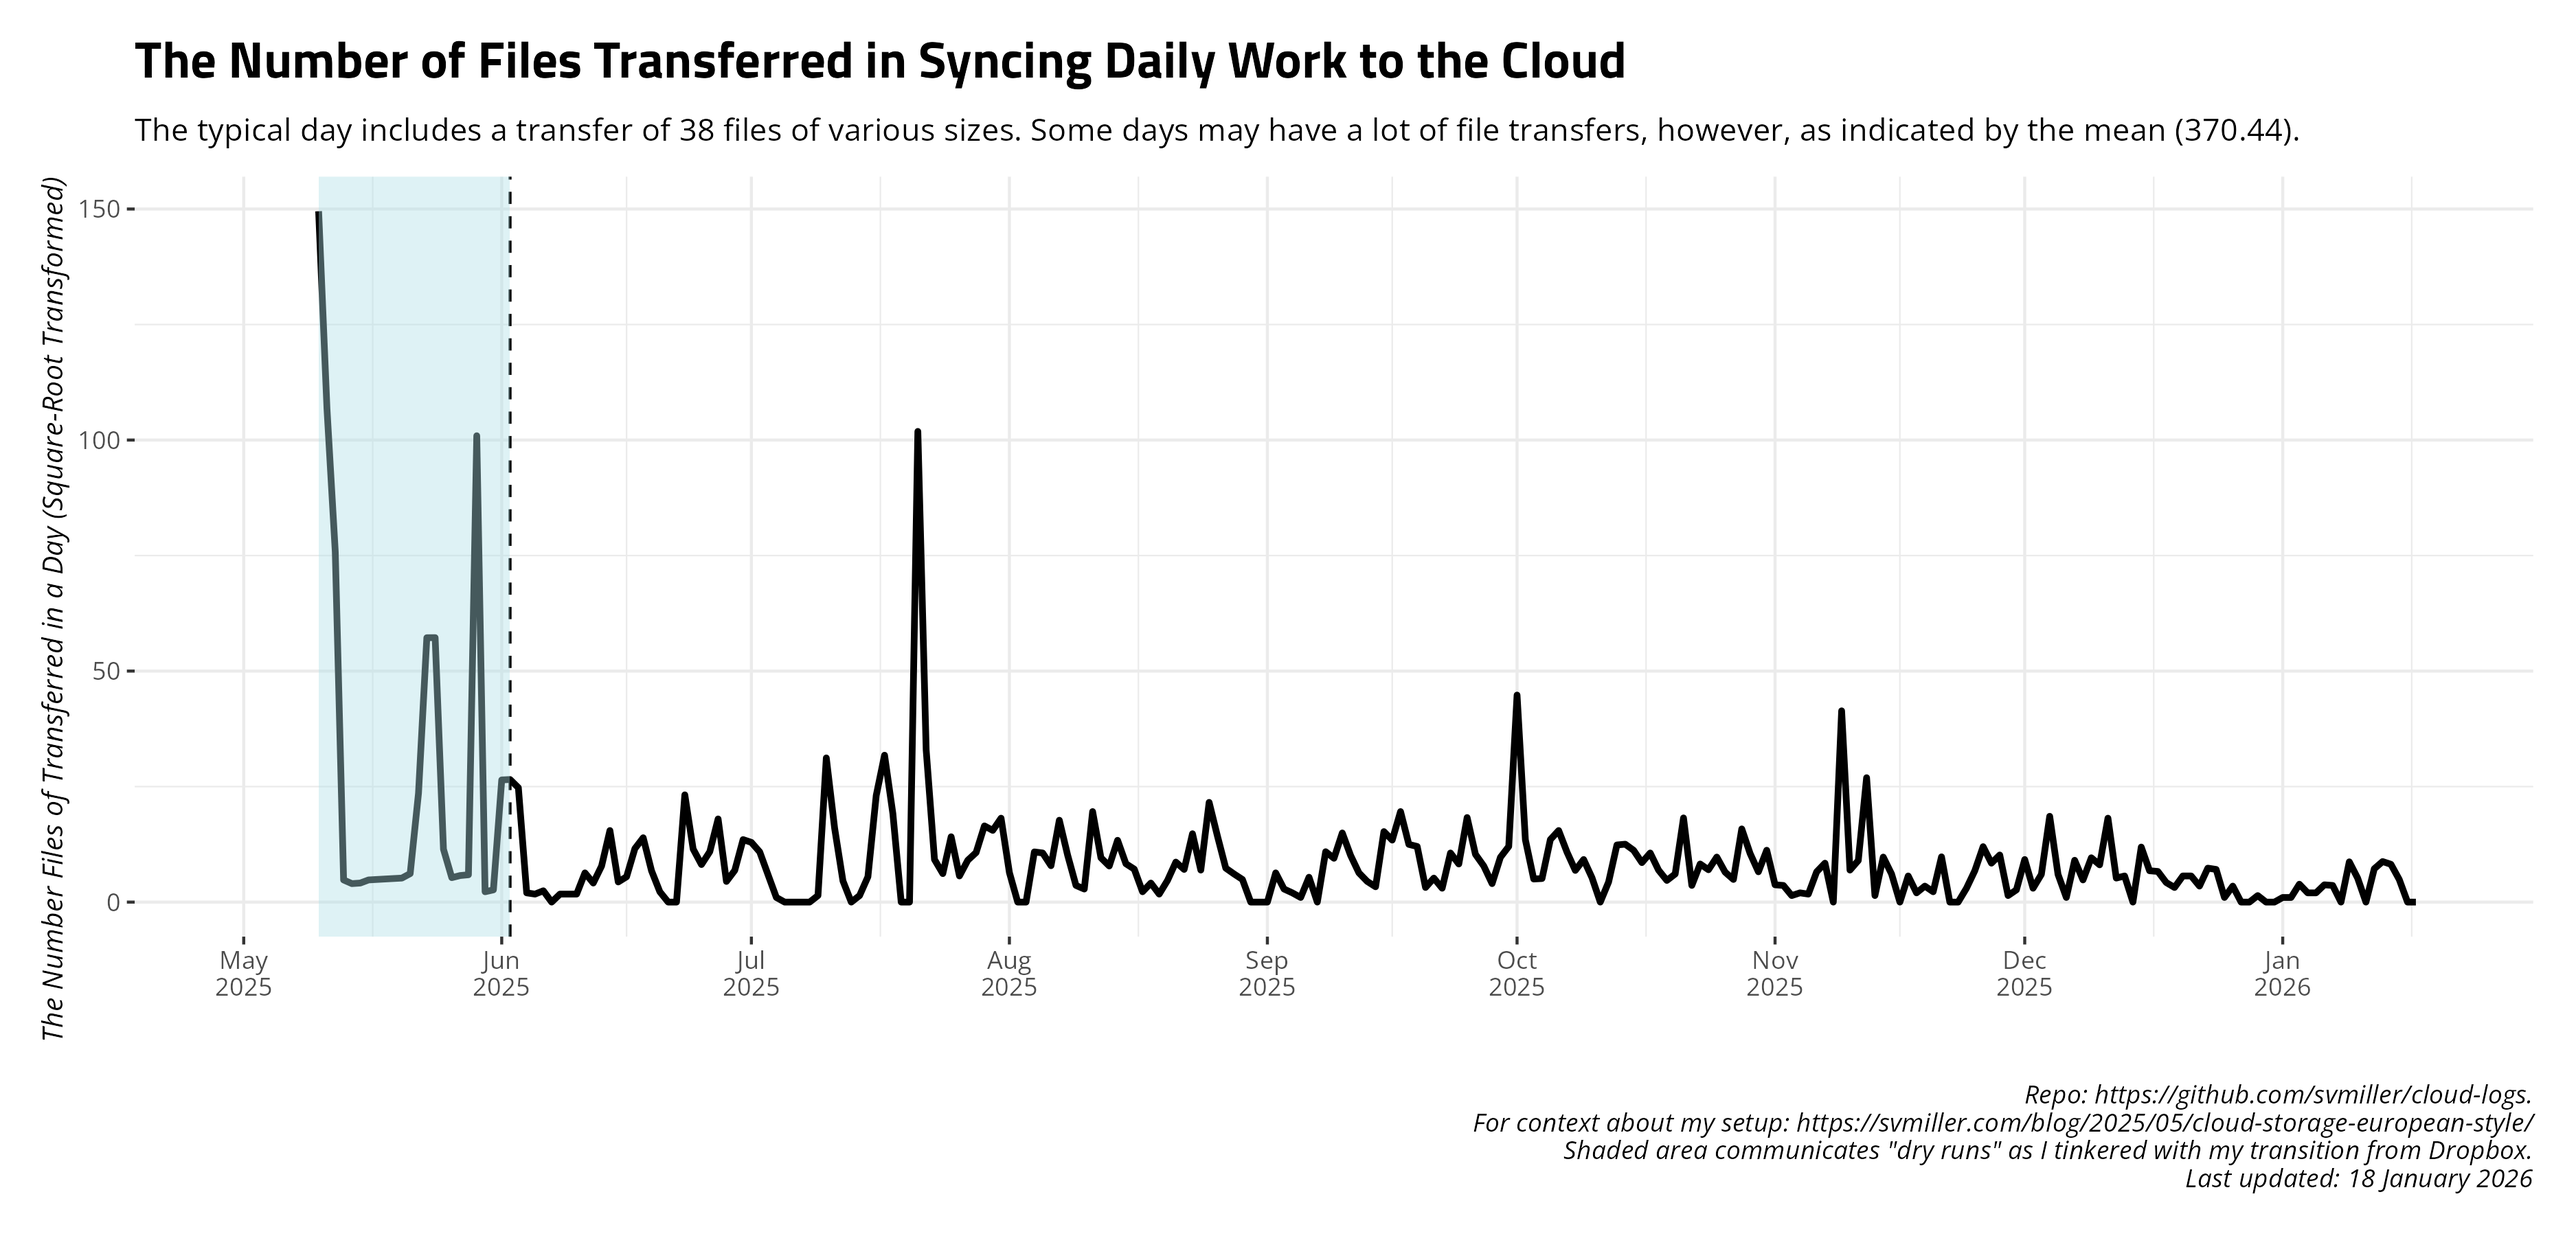
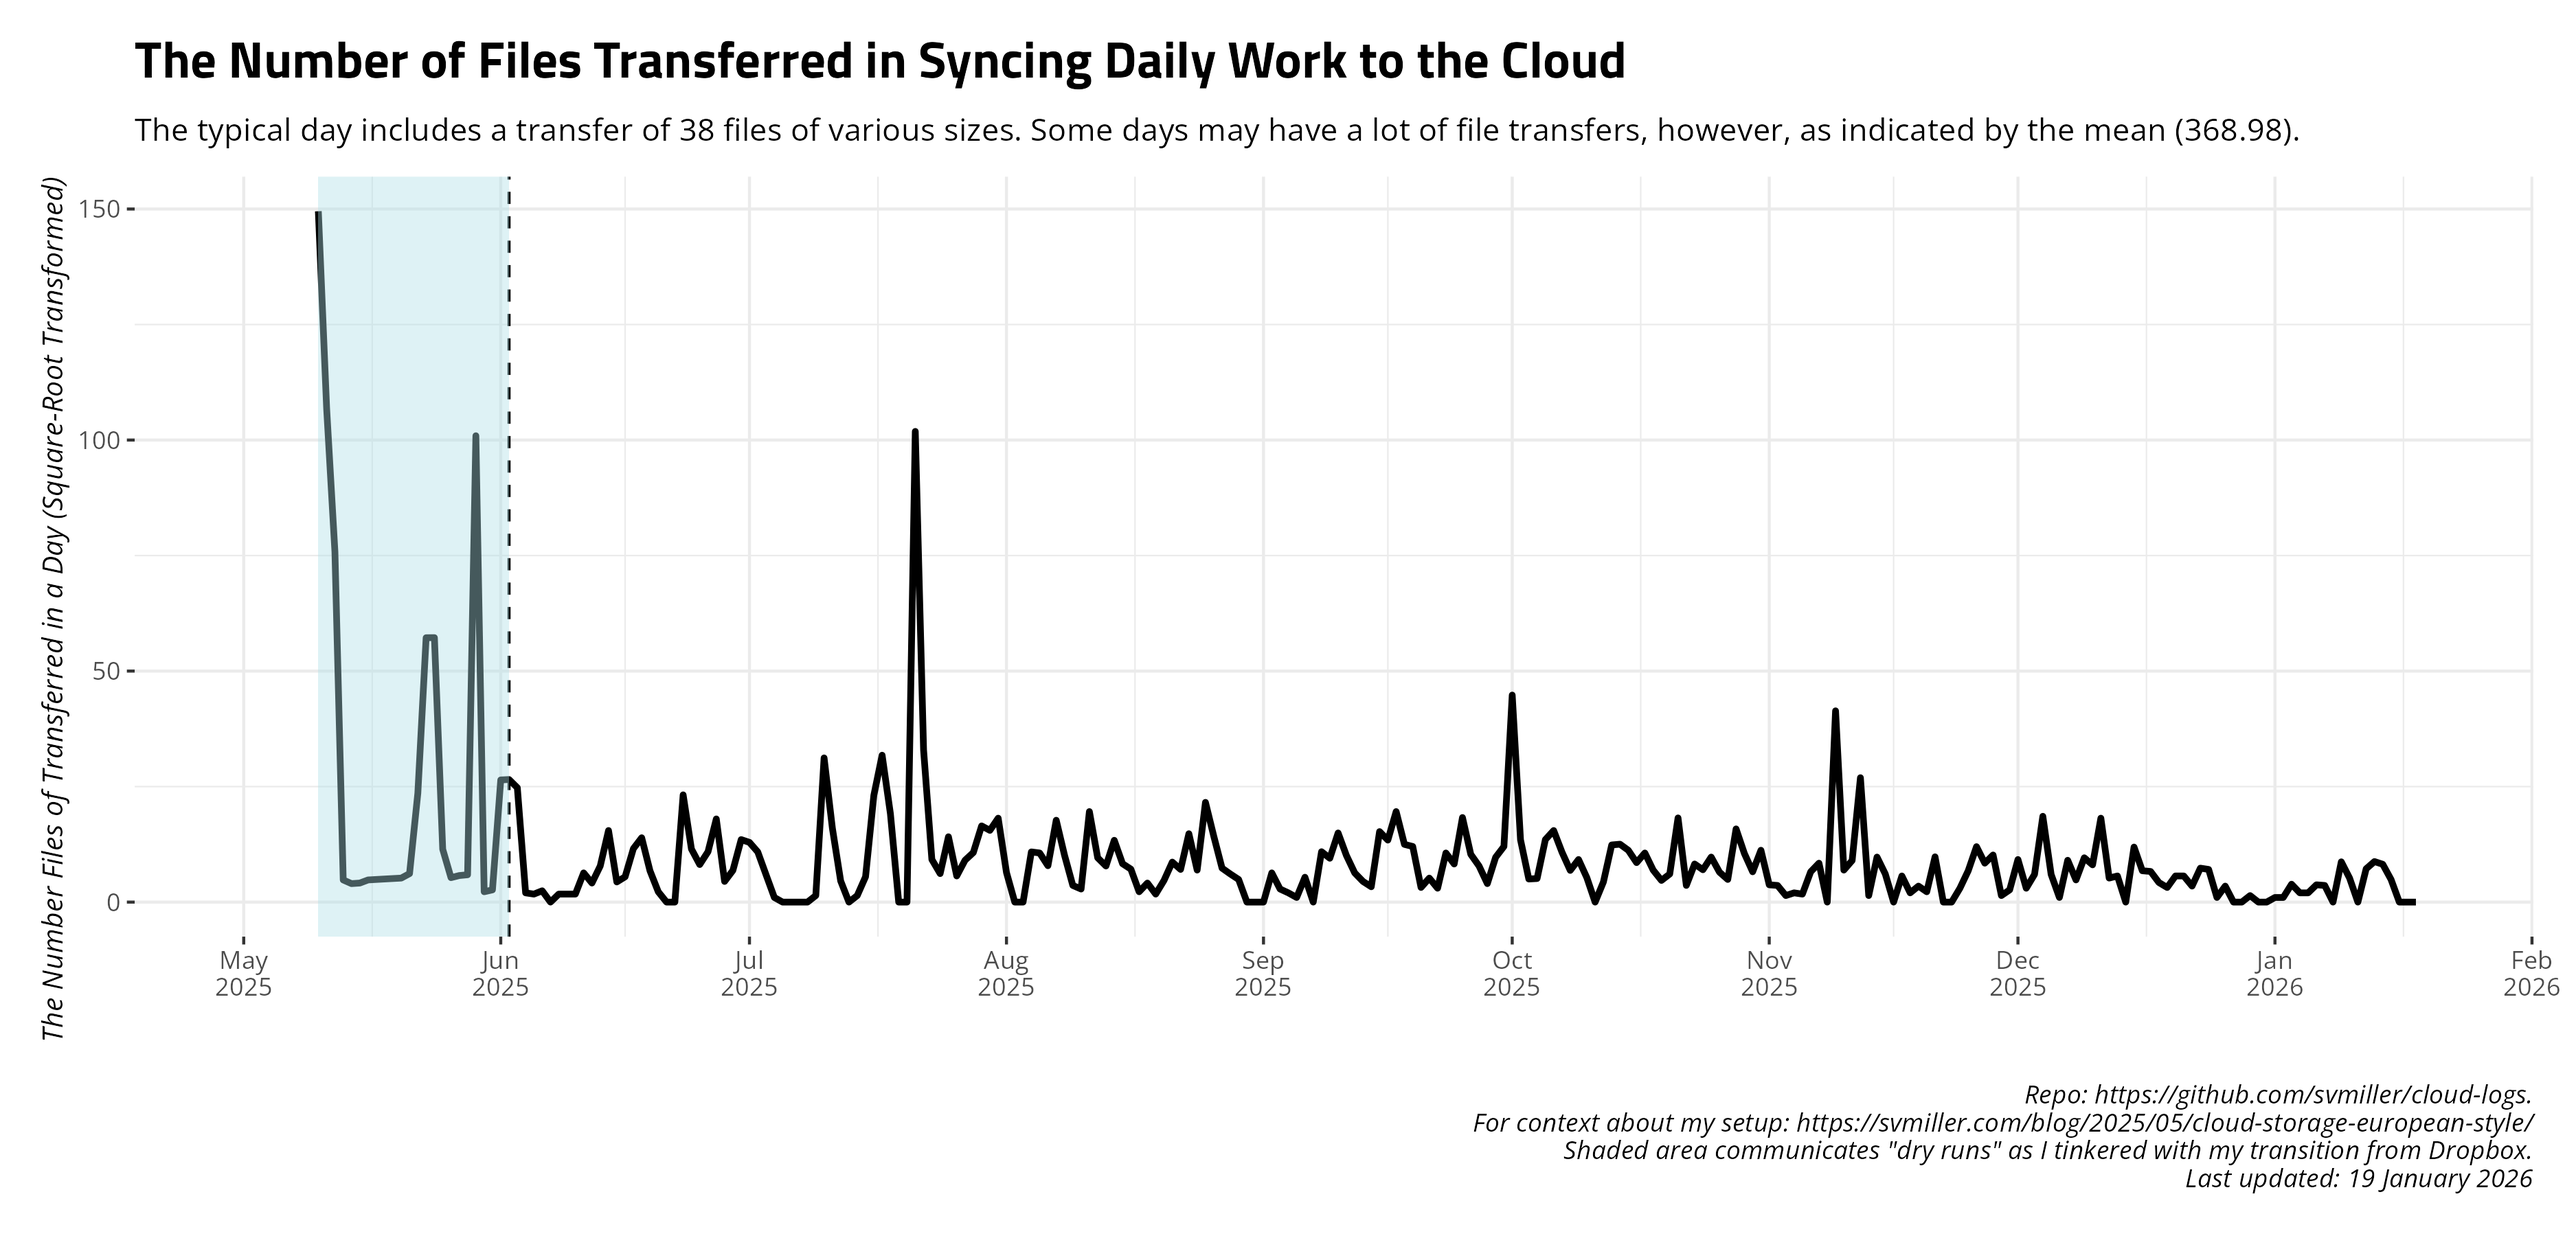
Date: 2026-01-19 09:00:20. Hi mom!

diff --git a/README.md b/README.md
@@ -27,17 +27,17 @@ and uploads to Github.
     #> # A tibble: 14 × 4
     #>    date       ftransfer stransfer   elapsed
     #>    <date>         <dbl> <chr>       <chr>  
-    #>  1 2026-01-04         4 246.865 KiB 5m50.9s
-    #>  2 2026-01-05         4 545.865 KiB 6m18.5s
-    #>  3 2026-01-06        14 126.652 KiB 4m46.0s
-    #>  4 2026-01-07        13 1.440 MiB   6m7.9s 
-    #>  5 2026-01-08         0 <NA>        5m55.4s
-    #>  6 2026-01-09        76 3.544 MiB   5m53.8s
-    #>  7 2026-01-10        27 11.354 MiB  5m59.2s
-    #>  8 2026-01-11         0 <NA>        5m49.0s
-    #>  9 2026-01-12        52 2.182 MiB   5m55.8s
-    #> 10 2026-01-13        77 818.499 KiB 6m7.7s 
-    #> 11 2026-01-14        67 54.182 MiB  4m36.0s
-    #> 12 2026-01-15        24 1.058 MiB   5m47.3s
-    #> 13 2026-01-16         0 <NA>        5m59.7s
-    #> 14 2026-01-17         0 <NA>        6m34.4s
+    #>  1 2026-01-05         4 545.865 KiB 6m18.5s
+    #>  2 2026-01-06        14 126.652 KiB 4m46.0s
+    #>  3 2026-01-07        13 1.440 MiB   6m7.9s 
+    #>  4 2026-01-08         0 <NA>        5m55.4s
+    #>  5 2026-01-09        76 3.544 MiB   5m53.8s
+    #>  6 2026-01-10        27 11.354 MiB  5m59.2s
+    #>  7 2026-01-11         0 <NA>        5m49.0s
+    #>  8 2026-01-12        52 2.182 MiB   5m55.8s
+    #>  9 2026-01-13        77 818.499 KiB 6m7.7s 
+    #> 10 2026-01-14        67 54.182 MiB  4m36.0s
+    #> 11 2026-01-15        24 1.058 MiB   5m47.3s
+    #> 12 2026-01-16         0 <NA>        5m59.7s
+    #> 13 2026-01-17         0 <NA>        6m34.4s
+    #> 14 2026-01-18         0 <NA>        6m37.1s
